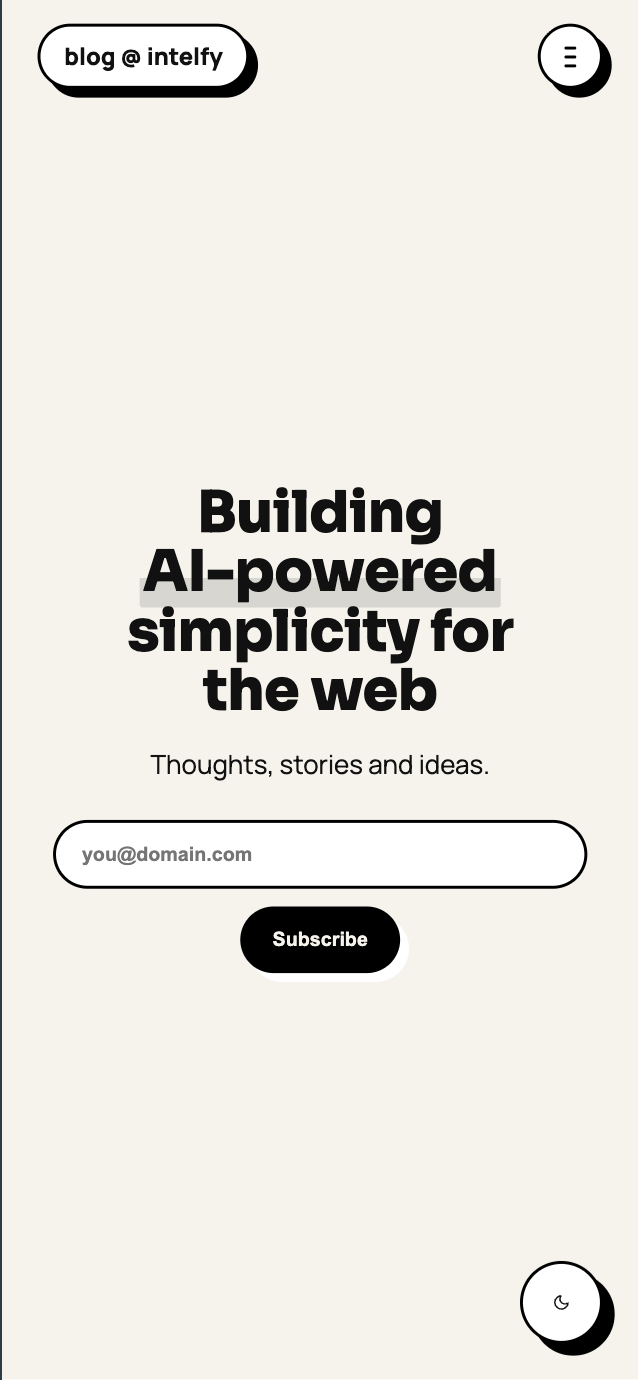
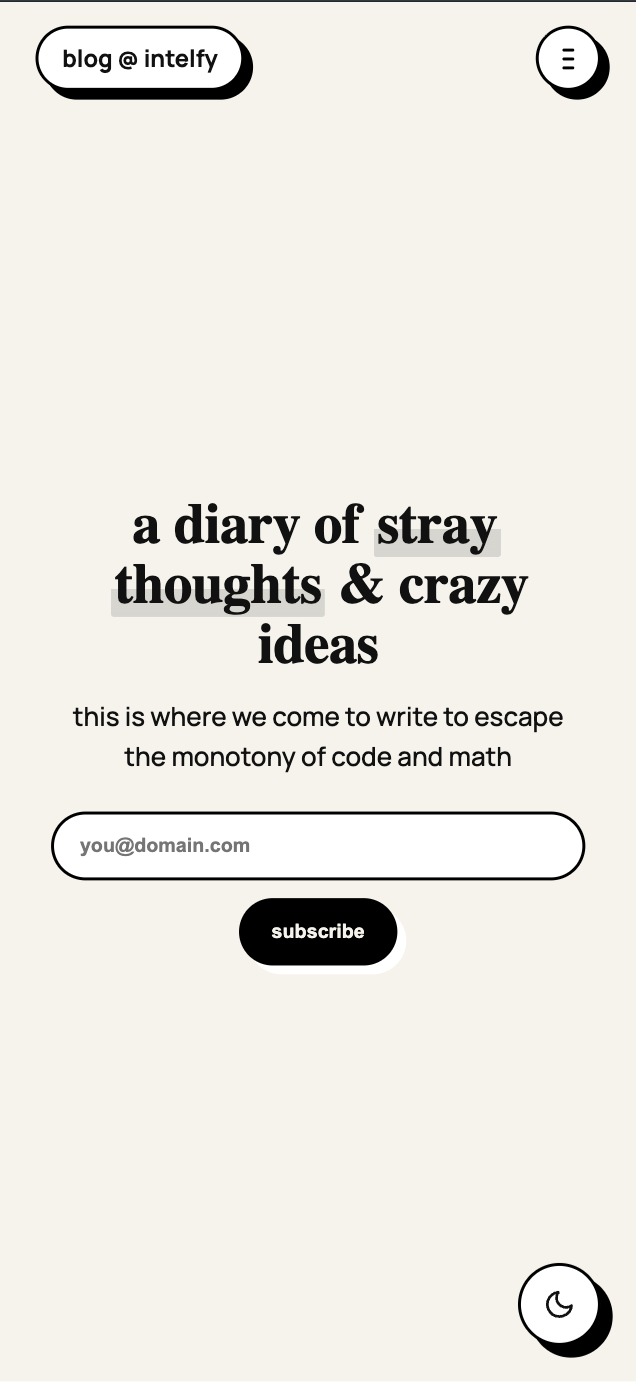
fixed some font messers uppers

diff --git a/assets/css/screen.css b/assets/css/screen.css
@@ -10,6 +10,17 @@
   --gh-font-heading: Sora;
   --gh-font-body: Manrope;
 }
+
+@font-face {
+  font-family: "var(--gh-font-body)";
+  src: url("assets/fonts/manrope.ttf") format("truetype");
+}
+
+@font-face {
+  font-family: "var(--gh-font-heading)";
+  src: url("assets/fonts/sora.ttf") format("truetype");
+}
+
 .dark{
   --bg:#0e1114;
   --surface:#161a1d;
